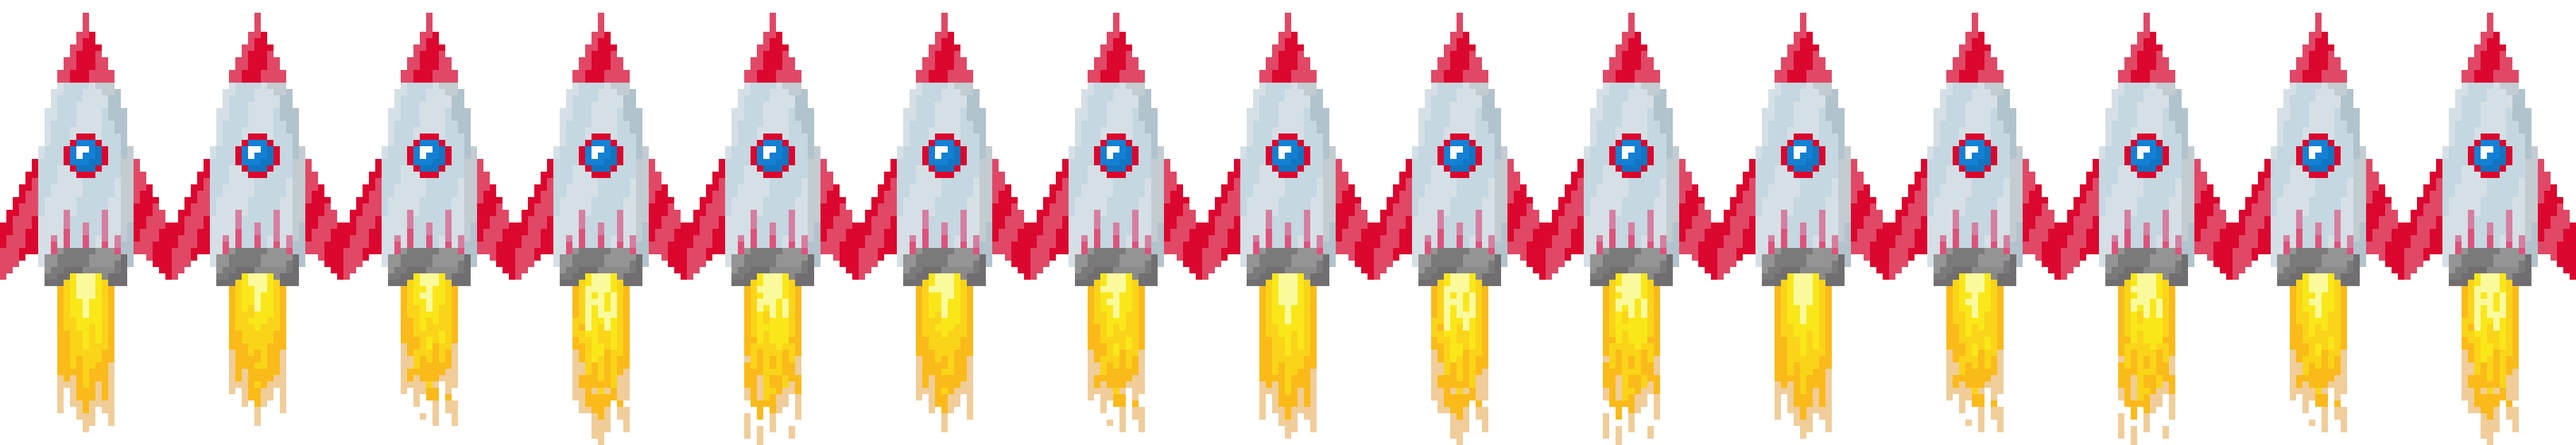
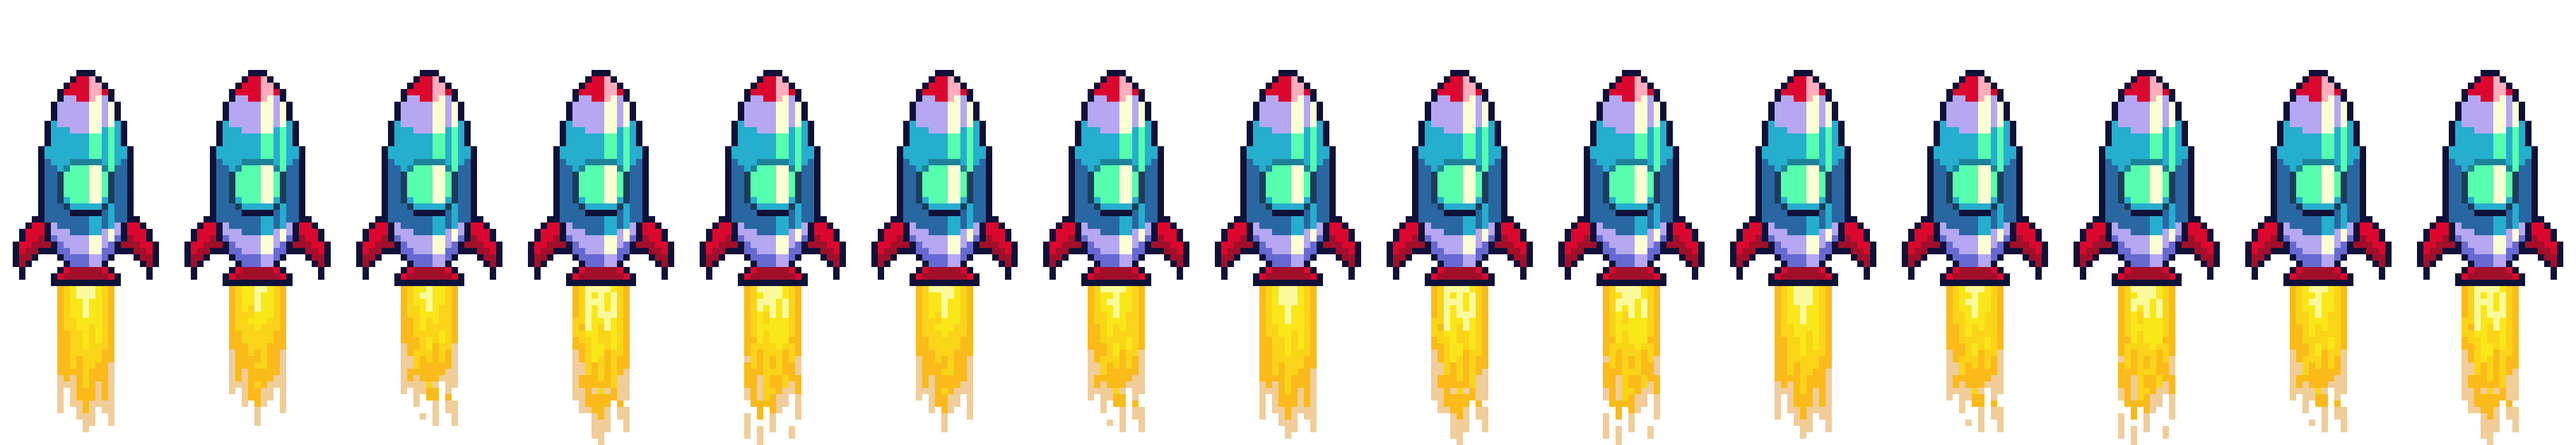
change rocket image and behavior with it

diff --git a/js/rocket.js b/js/rocket.js
@@ -1,11 +1,9 @@
-import {getScrollPercentage, slowScrollToBottom, slowScrollToTop, easeInOutCuaic, settings} from "./utils.js";
+import {getScrollPercentage, slowScrollToTop, easeInOutCuaic, settings} from "./utils.js";
 
 const rocket = document.querySelector('.svg_rocket');
-const tooltip_rocket = document.getElementById('tooltip_rocket');
 const listDrawingTooltip = document.querySelectorAll('.listDrawingTooltip');
 const footer = document.querySelector('footer');
 const launchButton = document.querySelector('.launchRocket');
-const landingButton = document.querySelector('#landingRocket');
 
 const isPhone = window.innerWidth < 580;
 
@@ -14,7 +12,8 @@ let generateSmokeZone = false;
 let generateSmokeInProgress = false;
 let previousScrollPercentage = getScrollPercentage();
 
-let tooltipTimer;
+let isDragging = false;
+let dragOffsetY = 0;
 
 const drawings = document.querySelectorAll(".figure img");
 const allDrawingLinkWebsite = {};
@@ -31,7 +30,6 @@ for (let i = 0; i < drawings.length; i++) {
 
 if (isPhone) {
     rocket.style.display = "none";
-    tooltip_rocket.style.display = "none";
 }
 else {
     document.addEventListener("scroll", function () {
@@ -44,7 +42,6 @@ else {
             rocket.style.filter = "none";
             rocket.classList.remove('landing');
             rocket.classList.remove('onspace');
-            landingButton.disabled = false;
             generateSmokeInProgress = false;
             generateSmokeZone = true;
             generateSmoke();
@@ -76,32 +73,48 @@ else {
         }
 
         rocket.style.top = newTop + 'px';
-        tooltip_rocket.style.top = newTop + 'px';
 
         previousScrollPercentage = scrollPercentage;
     });
+
+    rocket.addEventListener('mousedown', (e) => {
+        isDragging = true;
+
+        dragOffsetY = e.clientY - rocket.getBoundingClientRect().top;
+
+        document.body.style.userSelect = 'none';
+
+        document.documentElement.classList.remove('smooth-scroll');
+    });
+
+    window.addEventListener('mousemove', (e) => {
+        if (!isDragging) return;
+
+        let newTop = e.clientY - dragOffsetY;
+
+        const maxTop = window.innerHeight - footer.offsetHeight / 2;
+
+        newTop = Math.max(0, Math.min(newTop, maxTop));
+
+        const scrollRatio = newTop / maxTop;
+
+        const maxScrollableHeight = document.documentElement.scrollHeight - window.innerHeight;
+
+        const targetScrollY = scrollRatio * maxScrollableHeight;
+
+        window.scrollTo({
+            top: targetScrollY,
+            behavior: 'auto'
+        });
+    });
+
+    window.addEventListener('mouseup', () => {
+        if (isDragging) {
+            isDragging = false;
+            document.body.style.userSelect = '';
+        }
+    });
 }
-
-rocket.addEventListener('mouseenter', () => {
-    tooltip_rocket.style.pointerEvents = "all";
-    tooltip_rocket.style.opacity = "1";
-});
-
-tooltip_rocket.addEventListener('mouseenter', () => {
-    clearTimeout(tooltipTimer);
-});
-
-rocket.addEventListener('mouseleave', () => {
-    tooltipTimer = setTimeout(() => {
-        tooltip_rocket.style.opacity = "0";
-        tooltip_rocket.style.pointerEvents = "none";
-    }, 300);
-});
-
-tooltip_rocket.addEventListener('mouseleave', () => {
-    tooltip_rocket.style.opacity = "0";
-    tooltip_rocket.style.pointerEvents = "none";
-});
 
 launchButton.addEventListener('click', () => {
     const titleWelcome = document.querySelector('.welcome_text');
@@ -113,16 +126,6 @@ launchButton.addEventListener('click', () => {
     settings.effect = easeInOutCuaic;
     generateSmoke();
     slowScrollToTop();
-});
-
-landingButton.addEventListener('click', () => {
-    if (getScrollPercentage() !== 100) {
-        landingButton.disabled = true;
-        document.documentElement.classList.add('smooth-scroll');
-        settings.slow = 12000;
-        settings.effect = easeInOutCuaic;
-        slowScrollToBottom();
-    }
 });
 
 /**

diff --git a/css/rocket.css b/css/rocket.css
@@ -19,6 +19,12 @@
         height: 200px;
         right: 19px;
         animation: rocketFire 1s steps(15) infinite, rocketMove 2s ease-in-out infinite; /* 15: le nombre de frames de la fusée */
+
+        &:active {
+            animation: rocketFire 1s steps(15) infinite, rocketMove 2s ease-in-out infinite, selectRocket 0.3s;
+
+            background-image: url("../img/rocket/rocket_animation_select.png");
+        }
     }
 
     &.landing {
@@ -28,6 +34,10 @@
         height: 200px;
         right: 19px;
         animation: rocketFire 1s steps(15) infinite, rocketMove 2s ease-in-out infinite;
+
+        &:active {
+            background-image: url("../img/rocket/rocket_animation_small_select.png");
+        }
     }
 }
 
@@ -240,4 +250,12 @@
     100% {
         transform: rotate(0deg);
     }
+}
+
+@keyframes selectRocket {
+    0% { transform: rotate(0deg); }
+    25% { transform: rotate(5deg); }
+    50% { transform: rotate(0deg); }
+    75% { transform: rotate(-5deg); }
+    100% { transform: rotate(0deg); }
 }

diff --git a/index.html b/index.html
@@ -53,11 +53,6 @@
     </header>
 
     <div class="svg_rocket animation onspace"></div>
-    <div id="tooltip_rocket">
-        <div class="tip">
-            <button id="landingRocket">Landing</button>
-        </div>
-    </div>
 
     <main>
         <div class="container"></div>
